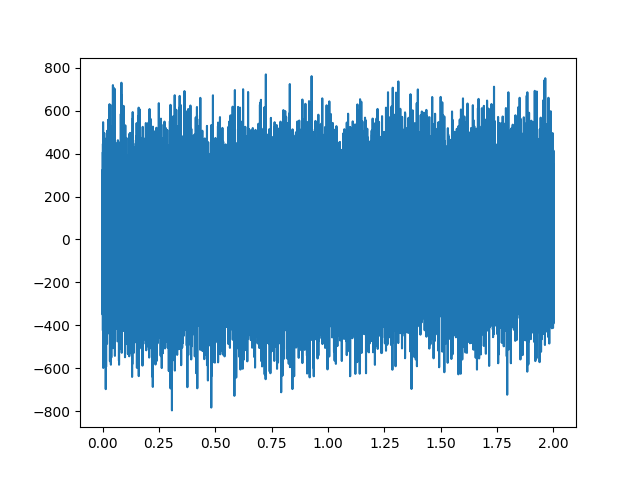
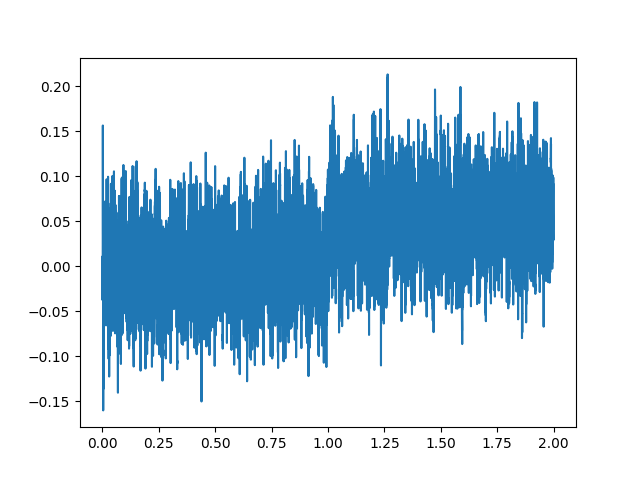
had to do window of 40 it seems

diff --git a/python/post/post_utils.py b/python/post/post_utils.py
@@ -301,17 +301,27 @@ def extract_load_curves(logfile, delta=None, init_time=0, window=1,
 
 
     print("Length of log file: ", len(time))
+
+    # smooth friction force
+    fx = running_mean(fx, 40)
+
+    # convert friction force from eV/Å to μN (micro Newton)
+    eV = value(u'elementary charge')  # J
+    Å = 1e-10  # m
+    fx *= eV / Å  # J/m = N
+    fx *= 1e6  # mN
+
     #-------------------------------------------------------------------------------finding rise
     #finding where push starts, and about where it breaks
-    push_start_indx = (np.abs(time - 1.0)).argmin()
-    push_stop_indx = (np.abs(time-1.03)).argmin()
+    #push_start_indx = (np.abs(time - 1.0)).argmin()
+    #push_stop_indx = (np.abs(time-1.03)).argmin()
 
-    print(f'push start indx, time: {time[push_start_indx]}, {push_start_indx}')
-    print(f'push stop indx, time: {time[push_stop_indx]}, {push_stop_indx}')
     
     #fitting sigmoid to selected interval.
     polfit_start_indx = (np.abs(time - 0.7)).argmin()
     polfit_stop_indx = (np.abs(time - 1.3)).argmin()
+    print(f'polfit start indx, time: {time[polfit_start_indx]}, {polfit_start_indx}')
+    print(f'polfit stop indx, time: {time[polfit_stop_indx]}, {polfit_stop_indx}')
     #translation so it has same shape as load_curve
     polfit_data = np.array((time[polfit_start_indx:polfit_stop_indx],
                            fx[polfit_start_indx:polfit_stop_indx])).T
@@ -352,15 +362,8 @@ def extract_load_curves(logfile, delta=None, init_time=0, window=1,
 
 
 
-    # smooth friction force
-    fx = running_mean(fx, window)
 
 
-    # convert friction force from eV/Å to μN (micro Newton)
-    eV = value(u'elementary charge')  # J
-    Å = 1e-10  # m
-    fx *= eV / Å  # J/m = N
-    fx *= 1e6  # mN
 
     # identify first prominent peak
     peaks, _ = find_peaks(fx, prominence=prominence)
